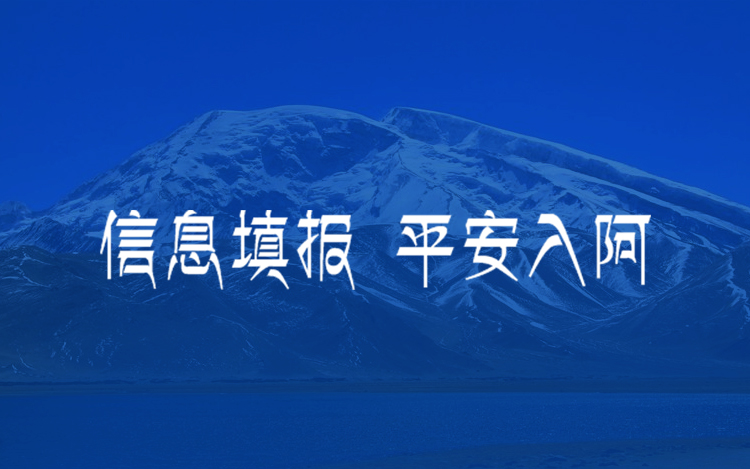
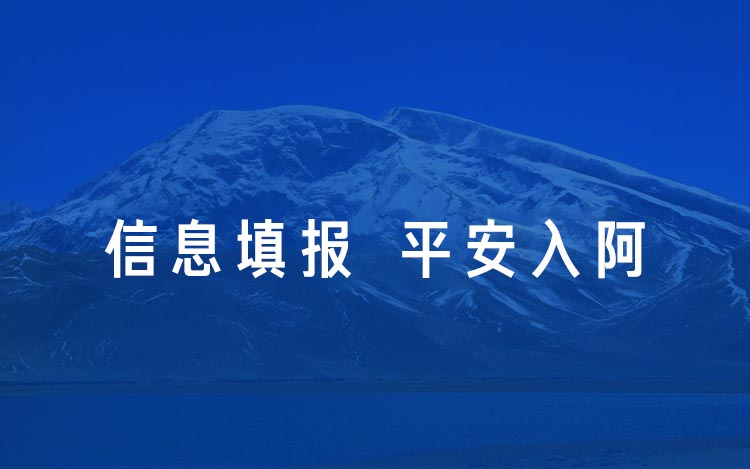
添加车次、航班号、车牌号、座位

Changed region(s): [[0.1227, 0.4179, 0.8893, 0.6269]]

diff --git a/miniprogram/pages/index/index.js b/miniprogram/pages/index/index.js
@@ -37,6 +37,9 @@ Component({
     registerTime: '请选择登记时间',//登记时间
     backupArry: 0,
     backup1: ['无'], //过去14天是否到过以下地区
+    backup3: '',//车次/航班/车牌号
+    backup3title:"车次",
+    backup4: '请输入座位号',//座位号
     isAgree: false, //本人承诺
     //验证规则
     rules: [
@@ -67,6 +70,12 @@ Component({
       }, {
         name: 'trafficType',
         rules: [{ required: true, message: '请选择来乌方式' }],
+      }, {
+        name: 'backup3',
+        rules: [{ required: true, message: '请输入车次/航班/车牌号' }],
+      }, {
+        name: 'backup4',
+        rules: [{ required: true, message: '请输入座位号' }],
       }, {
         name: 'departure',
         rules: { required: true, message: '请选择出发地' },
@@ -110,8 +119,16 @@ Component({
      * @param {*} e 
      */
     bindTrafficTypeChange: function (e) {
+      console.log(e);
+      var bakuparry = {
+        '0':'车次',
+        '1':'航班号',
+        '2':'车牌号'
+        }
+      console.log(bakuparry[e.detail.value]);
       this.setData({
         trafficTypeIndex: e.detail.value,
+        backup3title: bakuparry[e.detail.value],
         [`formData.trafficType`]: e.detail.value
       })
     },

diff --git a/cloudfunctions/submitHandle/index.js b/cloudfunctions/submitHandle/index.js
@@ -8,7 +8,7 @@ cloud.init({
 // 云函数入口函数
 exports.main = async (event) => {
     var rp = require('request-promise');
-    let { arrivalTime, backup1, backup2, trafficType, credentialsType,registerTime, departure, destination, idCard, isAgree, phoneNumber, userName } = event;
+    let { arrivalTime, backup1, backup2, backup3, backup4, trafficType, credentialsType,registerTime, departure, destination, idCard, isAgree, phoneNumber, userName } = event;
     var options = {
         method: 'POST',
         uri: 'http://39.105.58.173:18082/system/info/addUserSave',
@@ -16,6 +16,8 @@ exports.main = async (event) => {
             arrivalTime,
             backup1,
             backup2,
+            backup3,
+            backup4,
             credentialsType,
             departure,
             destination,
